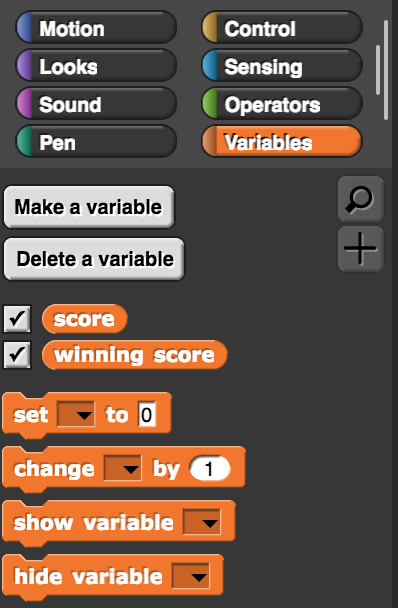
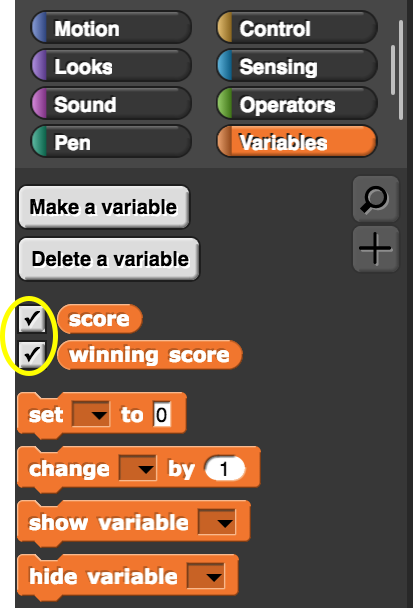
2.1.4 debugging
Re "Also, they should be before #8 not after":  The box is /part of/ 8, not /after/ it.

diff --git a/cur/programming/2-complexity/1-variables-games/4-keeping-score.html b/cur/programming/2-complexity/1-variables-games/4-keeping-score.html
@@ -91,24 +91,15 @@
                 </li>
                 <img class="imageRight" src="/bjc-r/img/icons/save-now.png" alt="Now Is a Good Time to Save" title="Now Is a Good Time to Save" />
                 <li><strong>Test and debug.</strong> Take turns playing, and fix any bugs.<br />
-                <div class="todo">Brian is going to combine these two debugging tips. Also, they should be before #8 not after. --MF, 1/8/20</div>
-                <div class="takeNote">
-
-                    <h4><strong>Debugging Tip: Display of Variables</strong></h4>
-                    <p>Global variables have check-boxes that control the display of the variable <em>watcher</em> on the stage (shown below). This can make it easier to track down errors in your program.</p>
-                    <img class="indent" src="/bjc-r/img/2-complexity/Debugging/golbal-variables-checked.png"  height="300" alt="Checking the global variables in the palette." title="Checking the global variables in the palette."/><img class="indent" src="/bjc-r/img/2-complexity/Debugging/global-variables-displayed.png"  height="300" alt="Displaying the global variable on the stage" title="Displaying the global variable on the stage"/>
-                </div>
                 <div class="takeNote">
                     <h4><strong>Debugging Tip: Display of Variables</strong></h4>
                     <p>
-                        When you are debugging your code, it can help to see the value of a variable at different points in your program. There are several ways to do this:
+                        When you are debugging your code, it can help to see the value of a variable at different points in your program. This is done differently for local and global variables:
                         <ul>
-                            <li>You can <strong>click the variable block</strong> (such as<img src="/bjc-r/img/2-complexity/secret-number.png" alt="secret number">) occasionally to report its current value.</li>
-                            <li>If it's a <em>global</em> variable, you can <strong>mark the check-box</strong> beside it in the palette (<img src="/bjc-r/img/2-complexity/secret-number-check.png" width="120" alt="checkbox next to secret number">) to have a <em>watcher</em> display on the stage. (This also works for some reporters that aren't variables, as shown in the animation below.)</li>
-                            <li>If it's a <em>local</em> (script) variable, you can <strong>use the <code>show variable</code> block</strong> to display a  watcher on the stage (and use <code>hide variable</code> to hide it again). (This is also shown in the following animation.)</li>
+                            <li>Global variables have check-boxes that control the display of the variable <em>watcher</em> on the stage (shown below).<br />
+                    <img class="indent" src="/bjc-r/img/2-complexity/Debugging/golbal-variables-checked.png"  height="300" alt="Checking the global variables in the palette." title="Checking the global variables in the palette."/><img class="indent" src="/bjc-r/img/2-complexity/Debugging/global-variables-displayed.png"  height="300" alt="Displaying the global variable on the stage" title="Displaying the global variable on the stage"/></li>
+                            <li>If it's a <em>local</em> (script) variable, you can <strong>use the <code>show variable</code> block</strong> inside the script to display a  watcher on the stage (and use <code>hide variable</code> to hide it again).</li>
                         </ul>
-                    </p>
-                    <img class="indent" data-gifffer="/bjc-r/img/2-complexity/Debugging/answer-script-variable-display.gif" height="375" alt="Animation showing how to display answer and script variables" title="Animation showing how to display answer and script variables"/>
                 </div>
 
                 </li>
